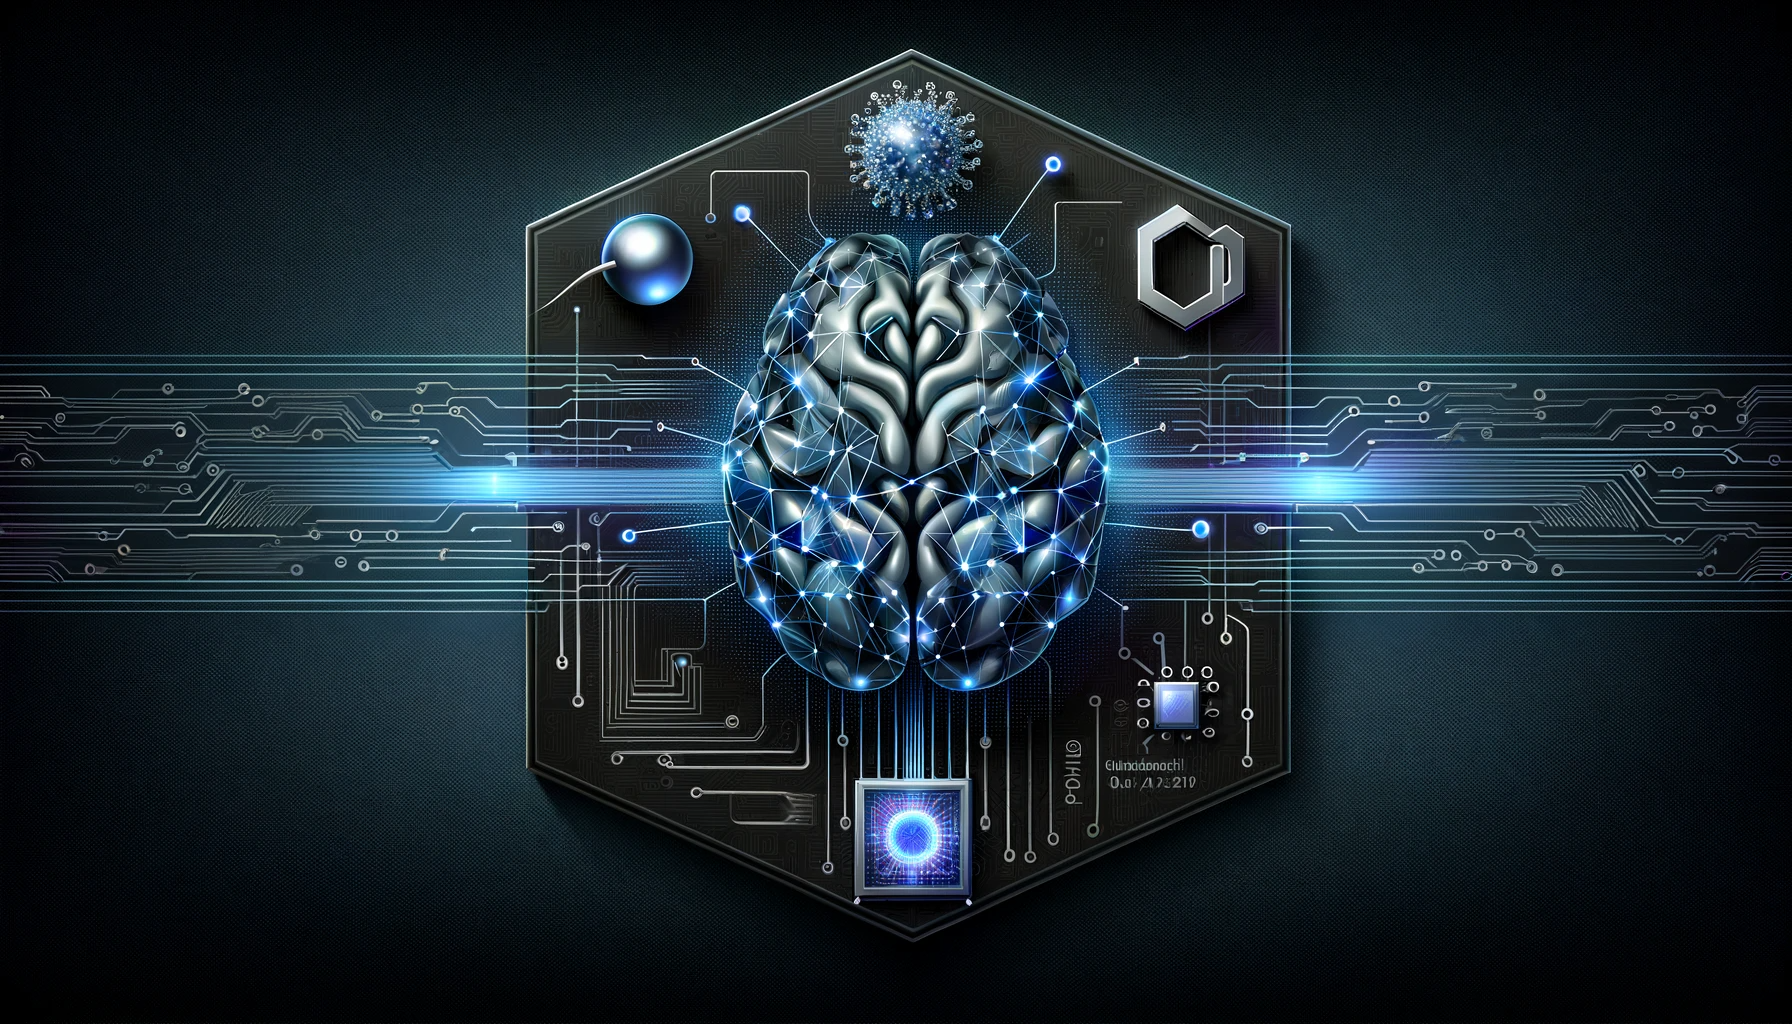
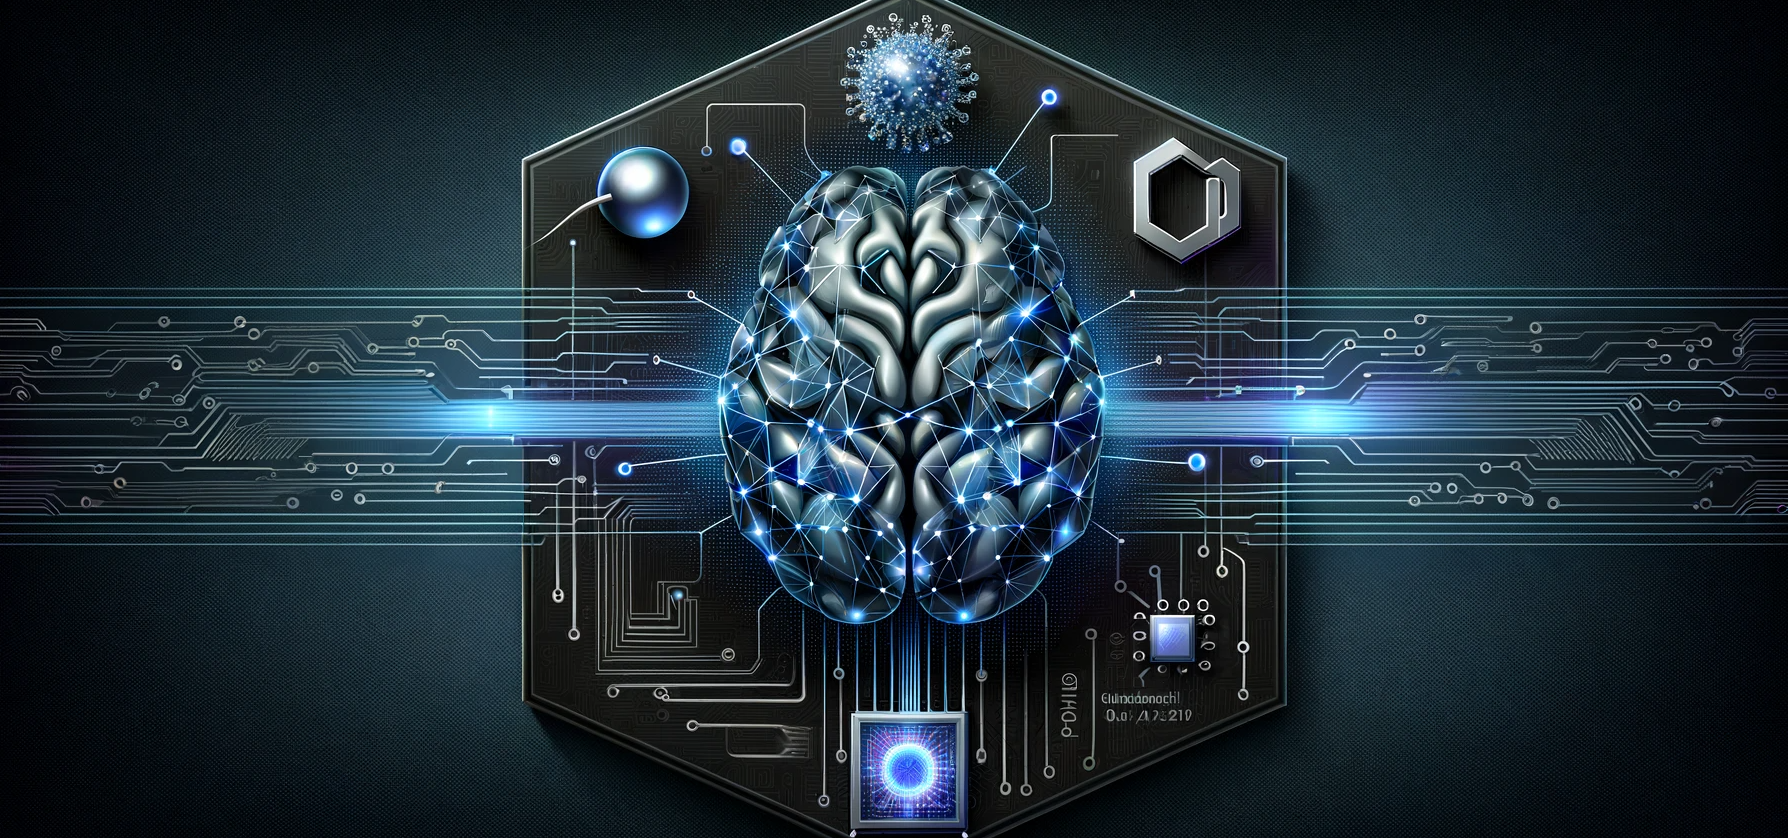
dddd

diff --git a/index.html b/index.html
@@ -15,7 +15,7 @@
 <body>
 
     <div class="banner">
-        <img src="assets/bannernecoqum_v2.png" alt="Conference Template Banner", style="width: 100%; height: 100%;">
+        <img src="assets/bannernecoqum_v3.png" alt="Conference Template Banner", style="width: 100%; height: 100%;">
         <div class="top-left">
             <span class="title1">Neuromorphic Computing</span> <span class="title3">Meets </span><span class="title2">Quantum Mechanics</span> <span class="year">2024</span>
         </div>

diff --git a/program/index.html b/program/index.html
@@ -18,7 +18,7 @@
 <body>
 
     <div class="banner">
-        <img src="assets/bannernecoqum_v2.png" alt="Conference Template Banner", style="width: 100%; height: 100%;">
+        <img src="assets/bannernecoqum_v3.png" alt="Conference Template Banner", style="width: 100%; height: 100%;">
         <div class="top-left">
             <span class="title1">Neuromorphic Computing</span> <span class="title3">Meets </span><span class="title2">Quantum Mechanics</span> <span class="year">2024</span>
         </div>

diff --git a/schedule/index.html b/schedule/index.html
@@ -15,7 +15,7 @@
 <body>
 
     <div class="banner">
-        <img src="assets/bannernecoqum_v2.png" alt="Conference Template Banner", style="width: 100%; height: 100%;">
+        <img src="assets/bannernecoqum_v3.png" alt="Conference Template Banner", style="width: 100%; height: 100%;">
         <div class="top-left">
             <span class="title1">Neuromorphic Computing</span> <span class="title3">Meets </span><span class="title2">Quantum Mechanics</span> <span class="year">2024</span>
         </div>
